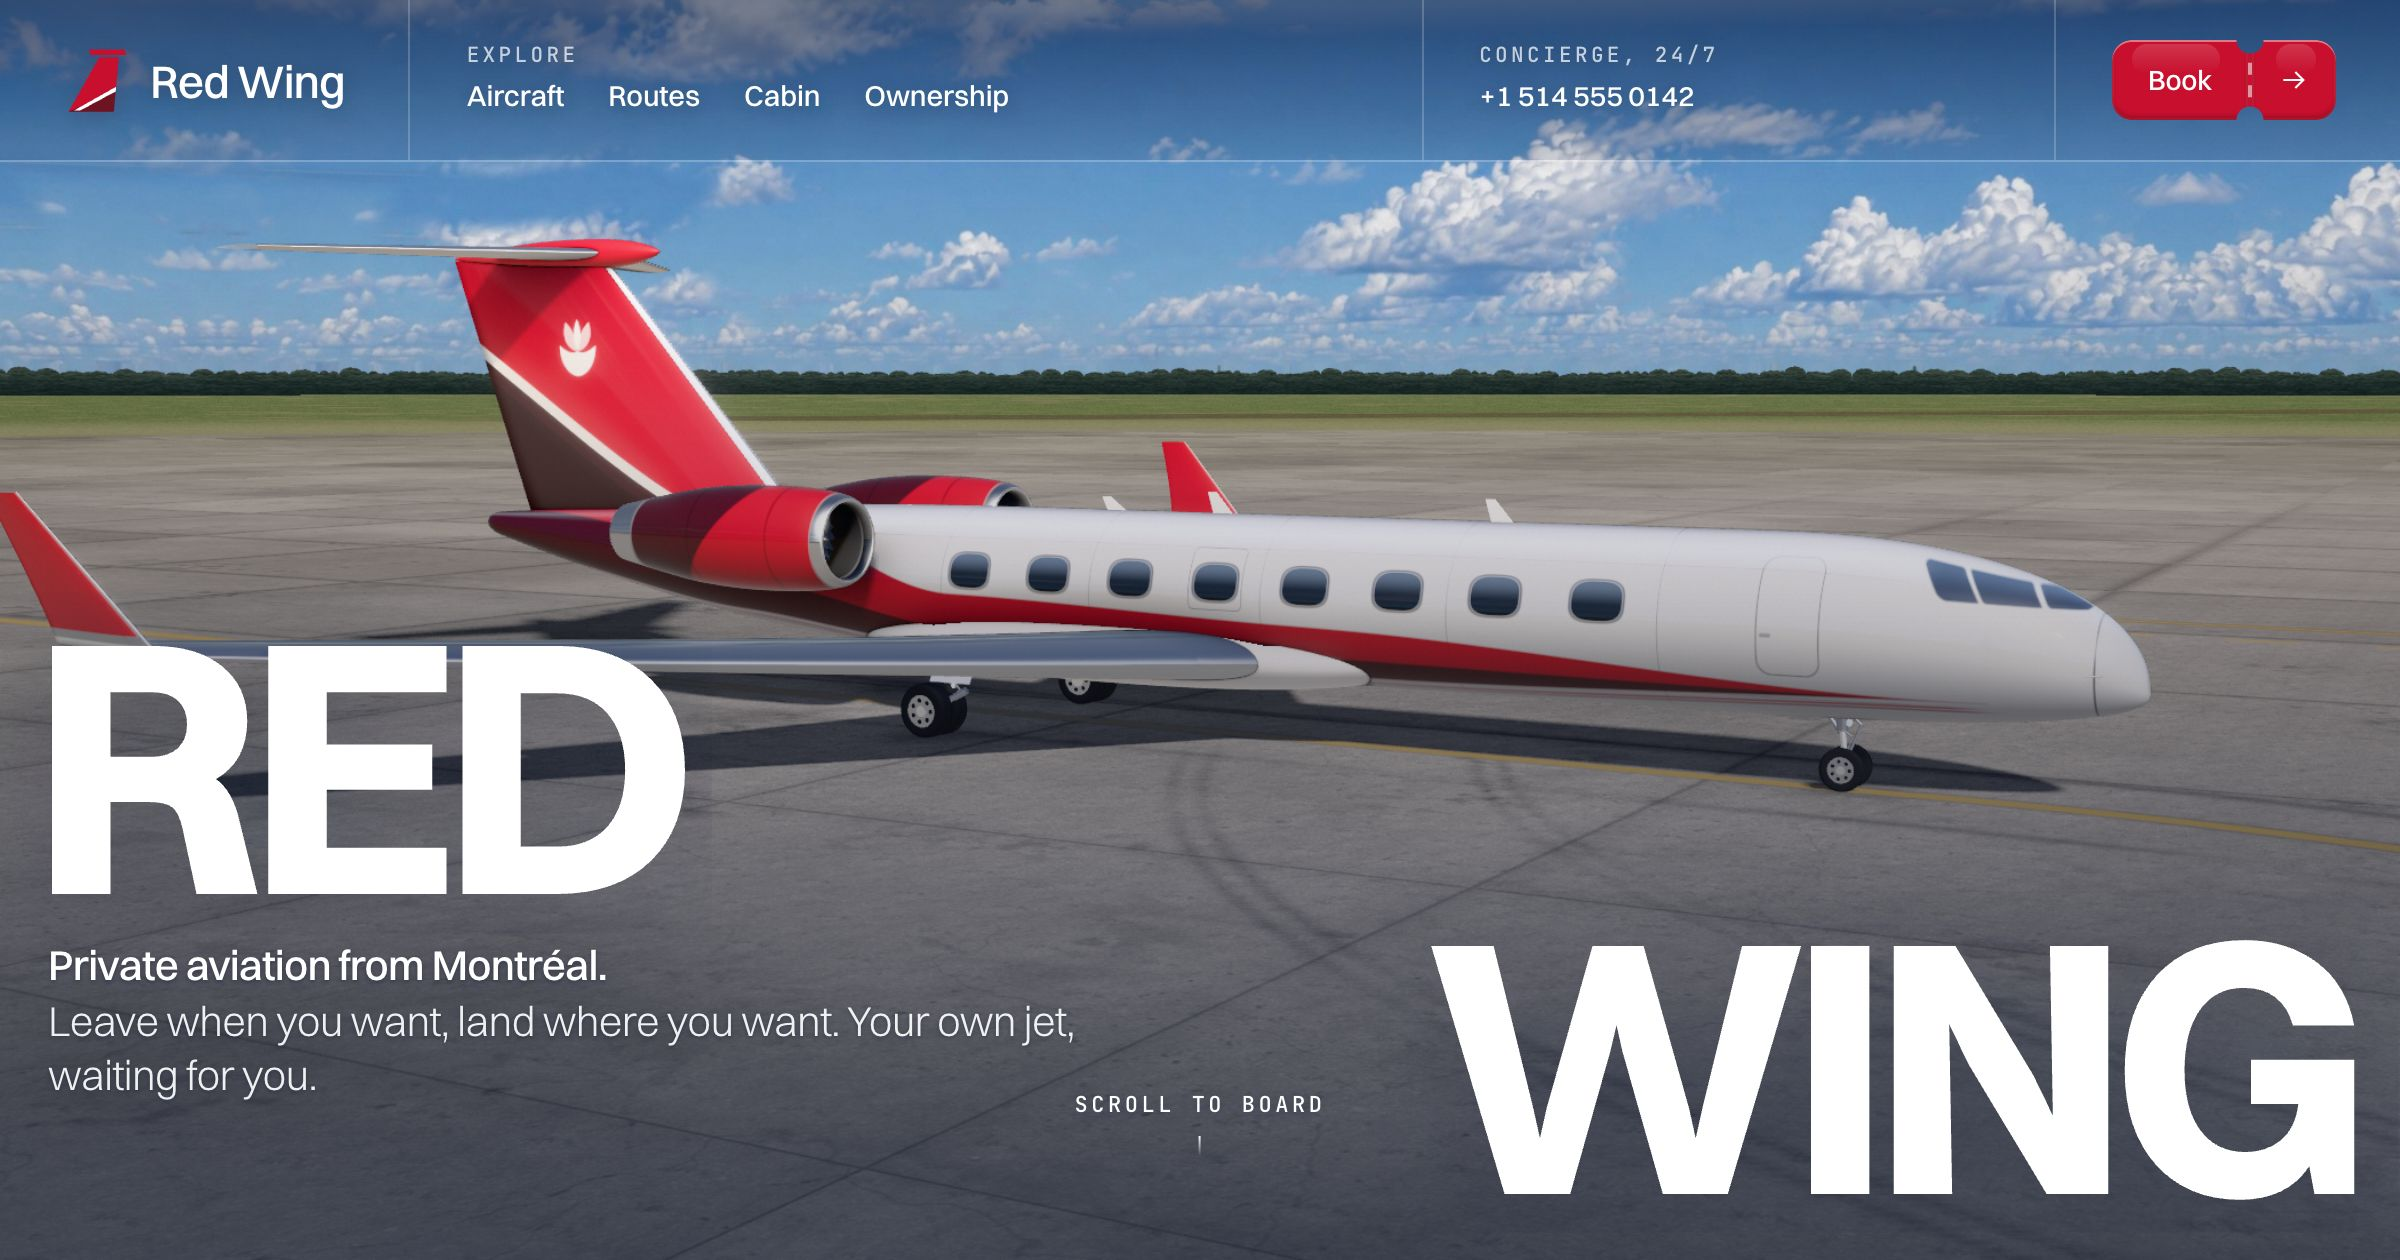
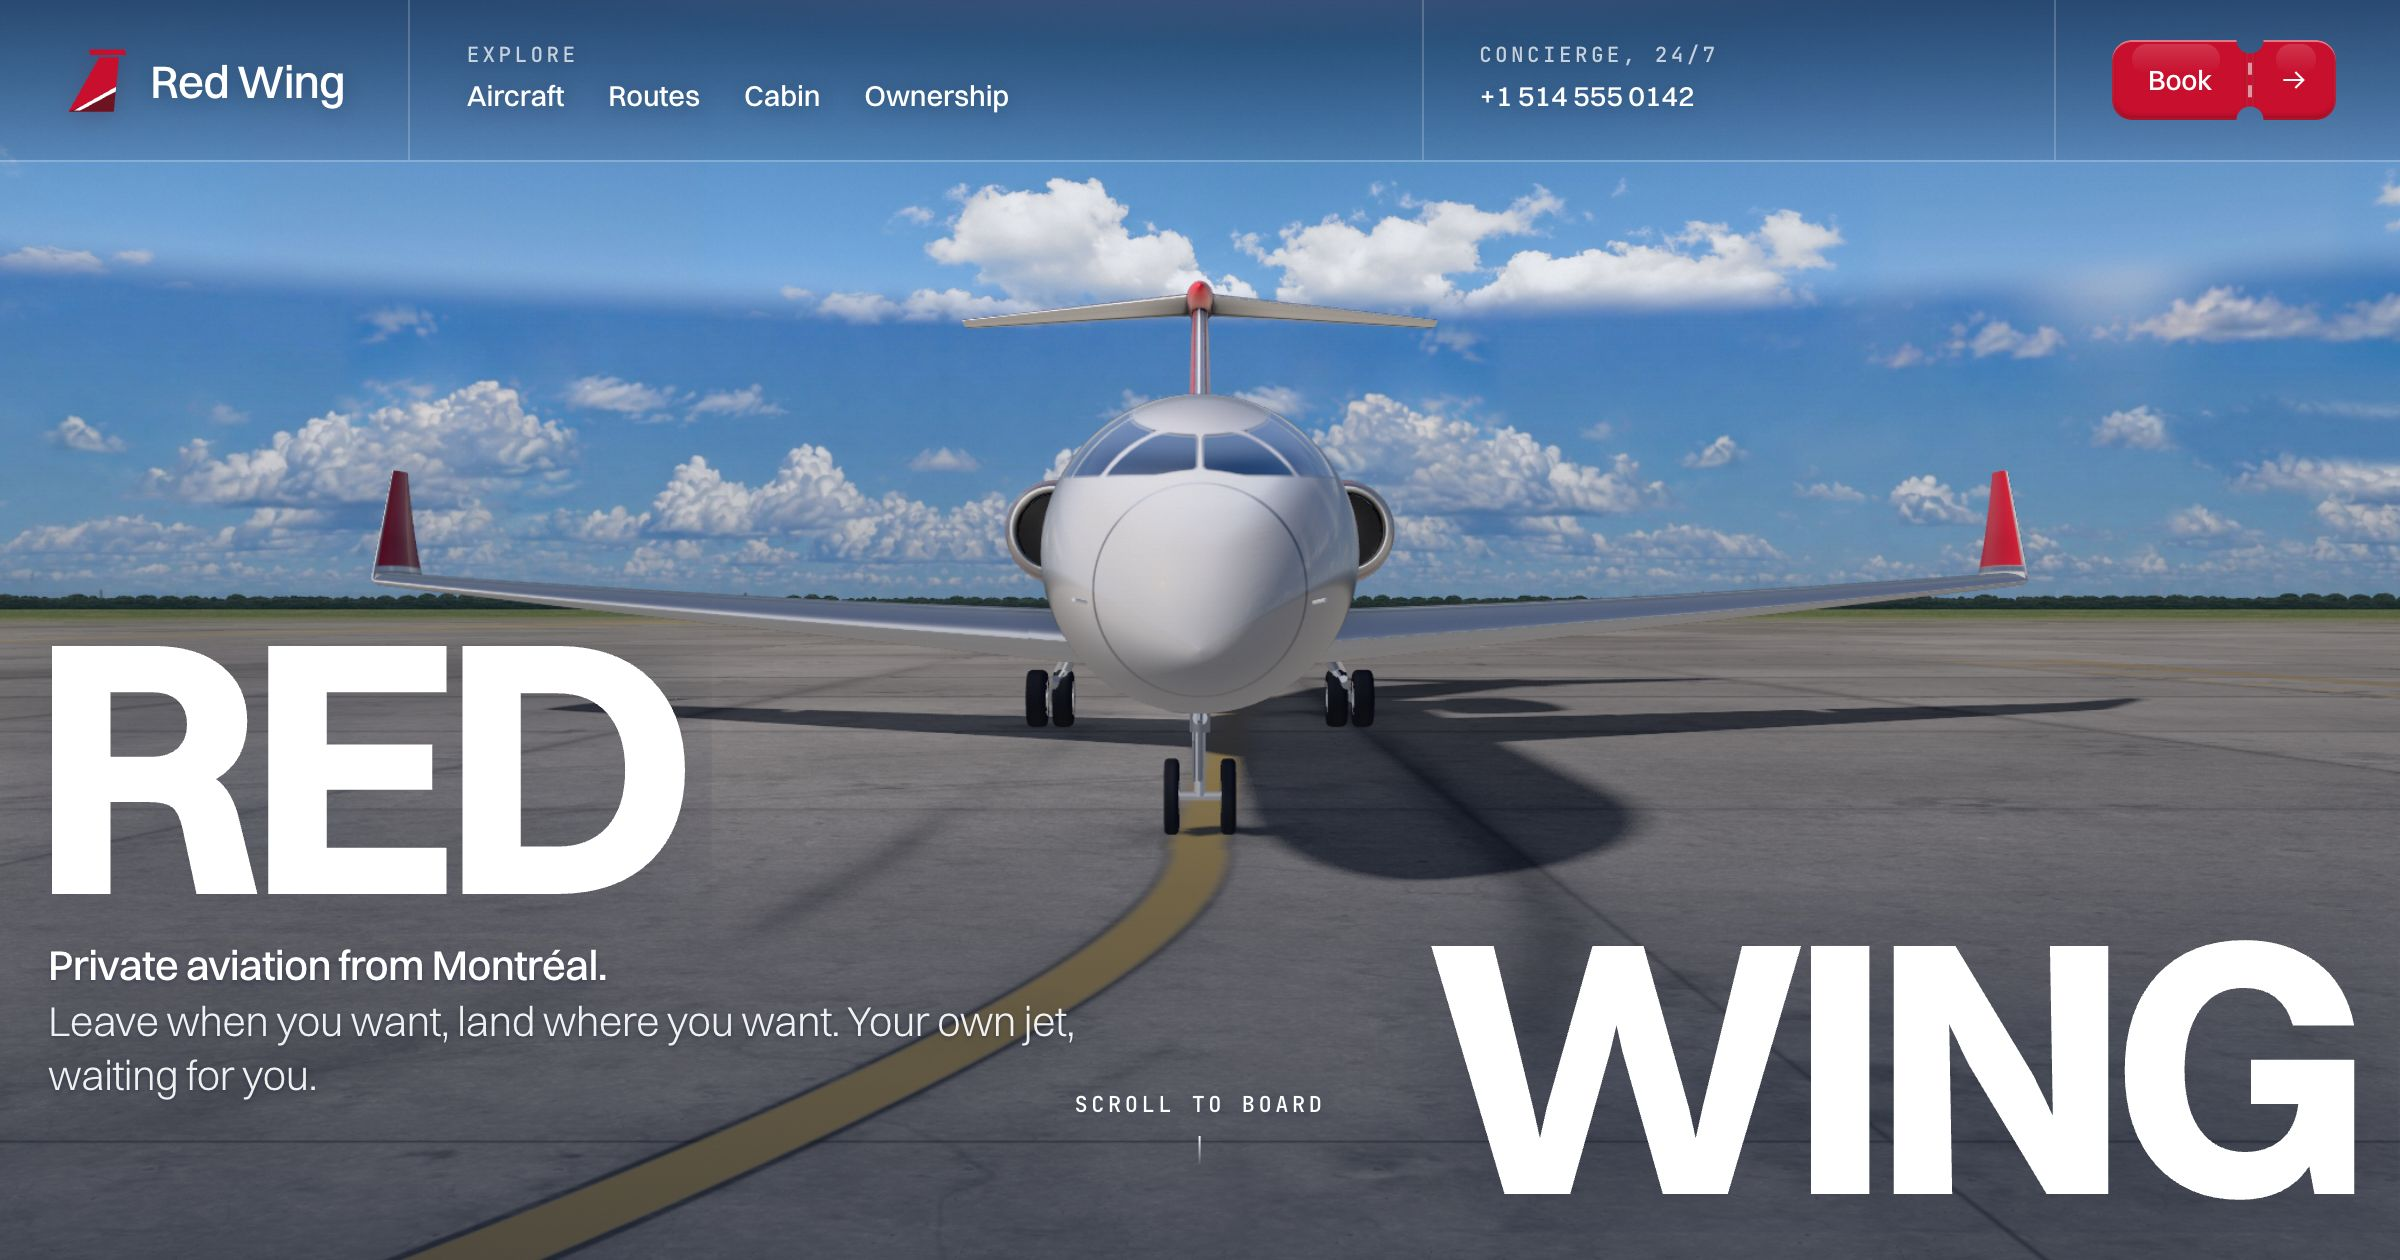
v41: hero opens head-on at ground level; closer framing on phones

diff --git a/index.html b/index.html
@@ -5095,10 +5095,12 @@ if (LAND) {
   const inKey = (p, name, extra = {}) => { const P = poseOf(CAM[name]); return { p, E: P.dir.clone().multiplyScalar(P.d).add(P.t), G: P.dir.clone().negate(), fov: P.fov, vig: 0.06, ...extra }; };
   const ptKey = (p, e, g, fov, vig) => { const E = V3(e[0], e[1], e[2] * VWIN.side); return { p, E, G: V3(g[0], g[1], g[2] * VWIN.side).sub(E).normalize(), fov, vig }; };
   const turnKey = (p, name, g, fov) => { const P = poseOf(CAM[name]), E = P.dir.clone().multiplyScalar(P.d).add(P.t); return { p, E, G: V3(g[0], g[1], g[2] * VWIN.side).sub(E).normalize(), fov, vig: 0.2 }; };
+  const vyHeroPose = () => { const narrow = view.w / Math.max(1, view.h) < 0.9; CAM.vyHero = C(2, -0.75, 0, 90, 0.7, narrow ? 10 : 25, 36); CAM.vyDoor = C(10.5, -0.75, 1.3, 42, 7, narrow ? 5.2 : 11.5, 36); };
   function buildVoyage() {
+    vyHeroPose();
     const x = VWIN.x;
     VY = {
-      out: [[0.00, 'xHero'], [0.05, 'xHero'], [0.20, 'xDoor']],
+      out: [[0.00, 'vyHero'], [0.05, 'vyHero'], [0.20, 'vyDoor']],
       walk: [
         inKey(0.32, 'cabinAft'), inKey(0.36, 'cabinAft'),
         inKey(0.42, 'xLounge'), inKey(0.48, 'xLounge'),
@@ -5121,6 +5123,7 @@ if (LAND) {
   voyage.leave = () => { window.__rwVoyDoor = null; finish.uniforms.uVig.value = 0.06; fadeEl.style.opacity = '0'; vyEnv = ''; };
   voyage.tick = (dt, y) => {
     if (!VY) buildVoyage();
+    if (!CAM.vyHero || (view.w / Math.max(1, view.h) < 0.9) !== (CAM.vyHero.d < 15)) vyHeroPose();
     const p = dbg.vp != null ? dbg.vp : vyP(y); window.__vyP = p;
     const inside = p >= 0.26;
     const env = inside ? 'cruise' : 'ground';
@@ -5134,7 +5137,7 @@ if (LAND) {
       finish.uniforms.uVig.value = 0.06;
     } else if (p < 0.32) {                            // up to the door, a blink, and you are standing in the forward cabin
       const k = inv(0.20, 0.32, p);
-      if (k < 0.5) { cam.from = poseOf(CAM.xDoor); cam.fromInside = false; cam.to = CAM.cabinAft; cam.k = k; S.zoom = S.zoomT = 1; }
+      if (k < 0.5) { cam.from = poseOf(CAM.vyDoor); cam.fromInside = false; cam.to = CAM.cabinAft; cam.k = k; S.zoom = S.zoomT = 1; }
       else { cam.from = poseOf(CAM.cabinAft); cam.fromInside = true; cam.to = CAM.cabinAft; cam.k = 1; S.zoom = S.zoomT = lerp(1.18, 1, ease((k - 0.5) * 2)); }
       dip = 1 - smooth(inv(0.0, 0.16, Math.abs(k - 0.5)));
       finish.uniforms.uVig.value = 0.06;

diff --git a/landing.html b/landing.html
@@ -5095,10 +5095,12 @@ if (LAND) {
   const inKey = (p, name, extra = {}) => { const P = poseOf(CAM[name]); return { p, E: P.dir.clone().multiplyScalar(P.d).add(P.t), G: P.dir.clone().negate(), fov: P.fov, vig: 0.06, ...extra }; };
   const ptKey = (p, e, g, fov, vig) => { const E = V3(e[0], e[1], e[2] * VWIN.side); return { p, E, G: V3(g[0], g[1], g[2] * VWIN.side).sub(E).normalize(), fov, vig }; };
   const turnKey = (p, name, g, fov) => { const P = poseOf(CAM[name]), E = P.dir.clone().multiplyScalar(P.d).add(P.t); return { p, E, G: V3(g[0], g[1], g[2] * VWIN.side).sub(E).normalize(), fov, vig: 0.2 }; };
+  const vyHeroPose = () => { const narrow = view.w / Math.max(1, view.h) < 0.9; CAM.vyHero = C(2, -0.75, 0, 90, 0.7, narrow ? 10 : 25, 36); CAM.vyDoor = C(10.5, -0.75, 1.3, 42, 7, narrow ? 5.2 : 11.5, 36); };
   function buildVoyage() {
+    vyHeroPose();
     const x = VWIN.x;
     VY = {
-      out: [[0.00, 'xHero'], [0.05, 'xHero'], [0.20, 'xDoor']],
+      out: [[0.00, 'vyHero'], [0.05, 'vyHero'], [0.20, 'vyDoor']],
       walk: [
         inKey(0.32, 'cabinAft'), inKey(0.36, 'cabinAft'),
         inKey(0.42, 'xLounge'), inKey(0.48, 'xLounge'),
@@ -5121,6 +5123,7 @@ if (LAND) {
   voyage.leave = () => { window.__rwVoyDoor = null; finish.uniforms.uVig.value = 0.06; fadeEl.style.opacity = '0'; vyEnv = ''; };
   voyage.tick = (dt, y) => {
     if (!VY) buildVoyage();
+    if (!CAM.vyHero || (view.w / Math.max(1, view.h) < 0.9) !== (CAM.vyHero.d < 15)) vyHeroPose();
     const p = dbg.vp != null ? dbg.vp : vyP(y); window.__vyP = p;
     const inside = p >= 0.26;
     const env = inside ? 'cruise' : 'ground';
@@ -5134,7 +5137,7 @@ if (LAND) {
       finish.uniforms.uVig.value = 0.06;
     } else if (p < 0.32) {                            // up to the door, a blink, and you are standing in the forward cabin
       const k = inv(0.20, 0.32, p);
-      if (k < 0.5) { cam.from = poseOf(CAM.xDoor); cam.fromInside = false; cam.to = CAM.cabinAft; cam.k = k; S.zoom = S.zoomT = 1; }
+      if (k < 0.5) { cam.from = poseOf(CAM.vyDoor); cam.fromInside = false; cam.to = CAM.cabinAft; cam.k = k; S.zoom = S.zoomT = 1; }
       else { cam.from = poseOf(CAM.cabinAft); cam.fromInside = true; cam.to = CAM.cabinAft; cam.k = 1; S.zoom = S.zoomT = lerp(1.18, 1, ease((k - 0.5) * 2)); }
       dip = 1 - smooth(inv(0.0, 0.16, Math.abs(k - 0.5)));
       finish.uniforms.uVig.value = 0.06;
